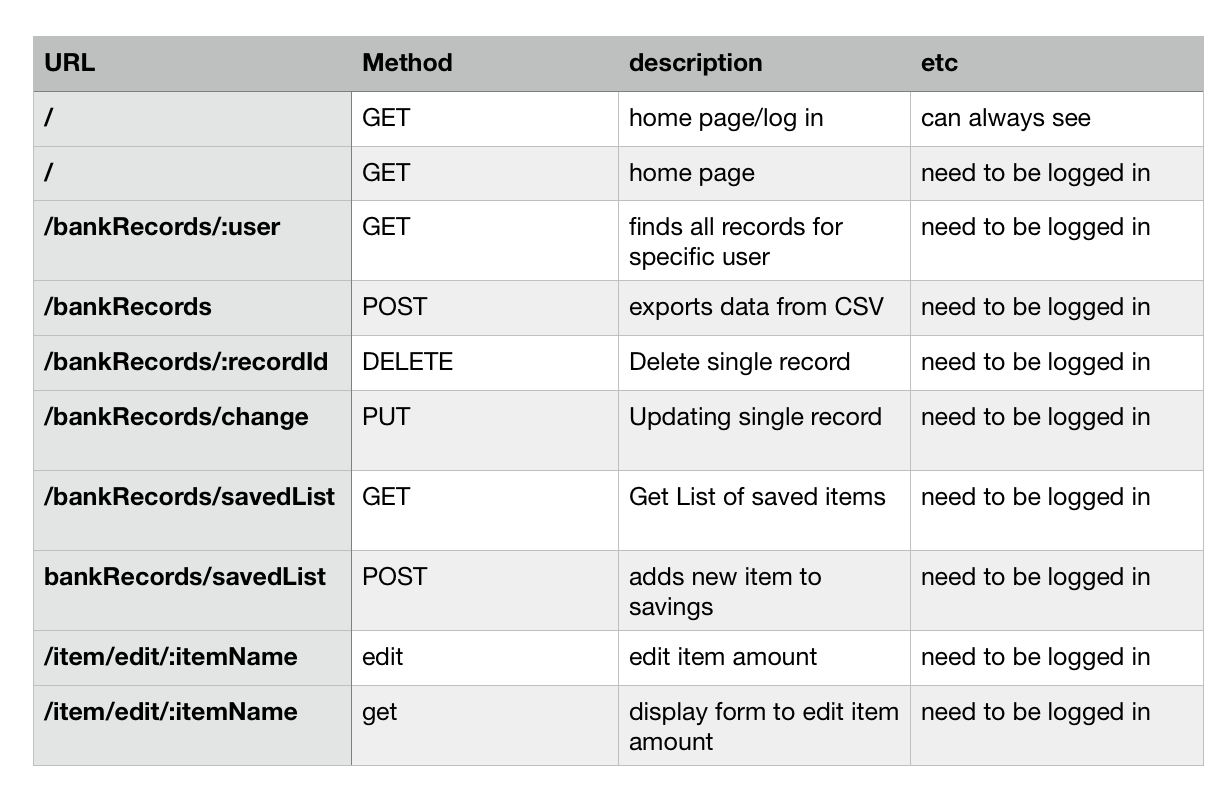
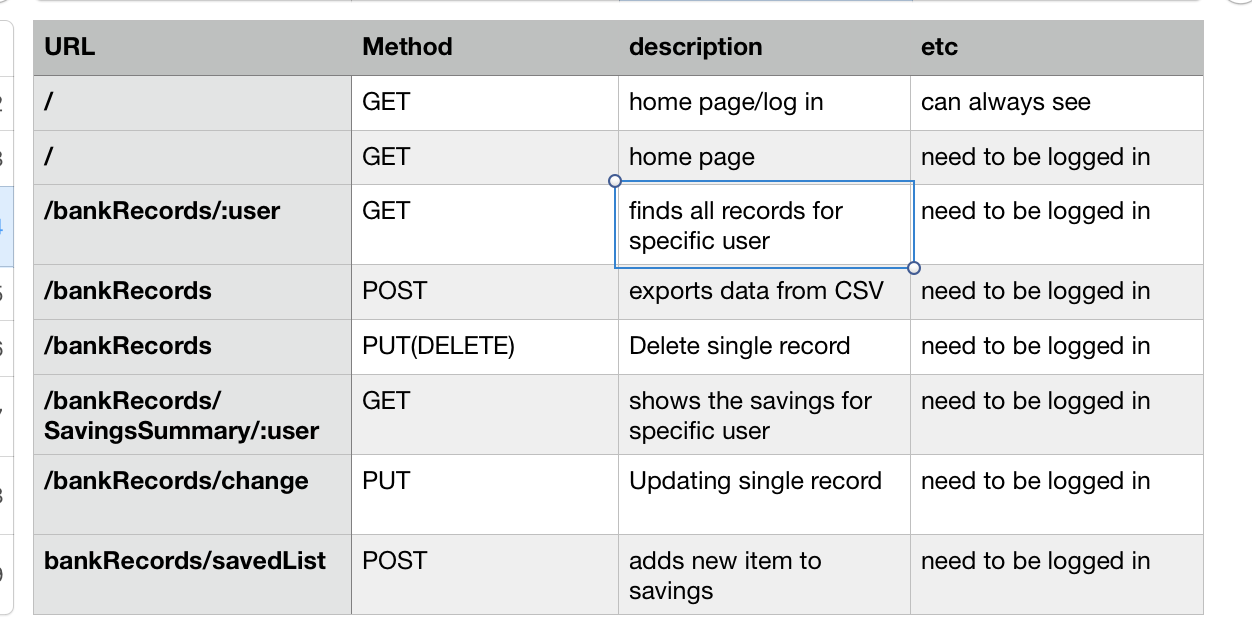
updated readme

diff --git a/client/src/EnterSavings.js b/client/src/EnterSavings.js
@@ -20,7 +20,7 @@ class EnterSavings extends Component {
       user: {}
     };
     //thisis the binding line necessary to keep this bound correctly
-    // this.componentDidMount = this.componentDidMount.bind(this);
+    this.componentDidMount = this.componentDidMount.bind(this);
     this.handleChangeDescription = this.handleChangeDescription.bind(this);
     this.handleChangeCategory = this.handleChangeCategory.bind(this);
     this.handleChangeAmount = this.handleChangeAmount.bind(this);
@@ -63,22 +63,14 @@ class EnterSavings extends Component {
 
 
   handleSubmit(e) {
-    // console.log('in savings value this is this.date.value', e)
-    // console.log("Description: ", this.state.Description);
-    // console.log("Category: ", this.state.Category);
-    // console.log("Amount: ", this.state.Amount);
-    // console.log("date: ", this.state.date);
     e.preventDefault();
     let Description = this.state.Description;
     let Category = this.state.Category;
     let Amount = this.state.Amount;
-    // console.log("descript: ", Description);
-    // console.log("category: ", Category);
-    // console.log("Amount: ", Amount);
     let user = this.state.user;
     let date = this.state.date.format("MM/DD/YY");
 
-    //add all three variables to object {} -- let Object = {insert object of three variables}
+    //add all the variables to object {} -- let Object = {insert object of three variables}
     let newObject = {
       Description: Description,
       Category: Category,
@@ -87,12 +79,6 @@ class EnterSavings extends Component {
       isSaved: true,
       userId: user
     }
-    //data: Ojbect of the three variables
-    //re-set state based on updated form information...
-
-    //add the new object (Object) to tempArr -- Google: ".shift() for objects"
-    //setState to tempArr (which is already done below)
-    // console.log("state: ", this.state.savings);
    let a = this;
     axios.post('/bankRecords/savedList', {
       data: newObject//insert object of the three variables
@@ -102,10 +88,6 @@ class EnterSavings extends Component {
       console.log("error: ", error);
     })
   }
-
-
-
-
 
   componentDidMount() {
     let user = this.props.user
@@ -138,11 +120,7 @@ class EnterSavings extends Component {
             <br />
             <div className="col s12">
               <select name="Category" value={this.state.value} onChange={this.handleChangeCategory} required>
-<<<<<<< HEAD
-                <option  value="" disabled defaultValue selected> </option>
-=======
-                <option  value="" disabled selected default> </option>
->>>>>>> unclebconnor-fridaysync
+                <option  value="" > </option>
                 <option value="Bills">Bills</option>
                 <option value="Groceries">Groceries</option>
                 <option value="Transportation">Transportation</option>
@@ -179,9 +157,11 @@ class EnterSavings extends Component {
             />
 
             <br />
-            <br />
-          <input type="submit" value="Submit" />
+            <input className="btn waves-effect waves-light movedownalittle" type="submit" value="Submit"  />  
         </form>
+        <br/>
+        <div className='divider'> </div>
+
       </div>
     );
   }

diff --git a/client/src/App.js b/client/src/App.js
@@ -55,28 +55,14 @@ class App extends Component {
     this.setState({
       user: user
     })
-    // console.log("user props: ", this.props.user)
-    // console.log("user state: ", this.state.user)
+    console.log("user props: ", this.props.user)
+    console.log("user state: ", this.state.user)
     }
   render() {
-<<<<<<< HEAD
-
-    // console.log("XXXXXXXXXX: ", this.state)
-    let user = this.props.user
-    // console.log("user in client/App.js: ", user);
-    // console.log("APP.JS STATE", this.state)
-
-=======
-<<<<<<< HEAD
     console.log("XXXXXXXXXX: ", this.state)
     let user = this.state.user
-=======
-    // console.log("XXXXXXXXXX: ", this.state)
-    let user = this.props.user
->>>>>>> 20f95289062eb4659571de61300566538066c1eb
     console.log("user in client/App.js: ", user);
     console.log("APP.JS STATE", this.state)
->>>>>>> unclebconnor-fridaysync
     // if the token exists display the router
     if(this.state.token !== "" && this.state.token !== undefined){ //need this active to use auth
   // if(true){
@@ -87,7 +73,7 @@ class App extends Component {
             <div className="nav-wrapper">
             <a href="/" className="brand-logo right"><i className="material-icons left">beach_access </i>RainyDay </a>
             <a href="/" className="button-collapse "><i className="material-icons">menu</i></a>
-              <div className='hide-on-sm-and-down'>
+              <div className='hide-on-med-and-down'>
               <Link to="/" className="btn btn-large #99d3df cyan darken-3 ">Home</Link>
               <Link to="/savingsReactRoute" className="btn btn-large #88bbd6 cyan darken-3 ">Savings</Link>
               <Link to="/bankRecordsReactRoute" className="btn btn-large #00838f cyan darken-3 ">Bank Records</Link>
@@ -116,11 +102,11 @@ class App extends Component {
               <Route exact path="/bankRecordsReactRoute"
                 render={() => <BankRecords user={this.state.user} />}
               />
-              <Route exact path="/userDataReactRoute"
+              <Route exact path="/userDataReactRoute" 
                 render={() => <UserData user={this.state.user} />}
               />
-
-
+             
+              
             </div>
           </div>
         </Router>
@@ -129,7 +115,7 @@ class App extends Component {
       return(
         <Router>
         <div className="App">
-
+                      
               <nav className="RouterLinks  #00838f cyan darken-3  navbar">
                  <div className="nav-wrapper">
                    <a href="/" className="brand-logo right"><i className="material-icons left">beach_access </i>RainyDay </a>
@@ -149,9 +135,9 @@ class App extends Component {
               <Route exact path="/Login"
                 render={() => <Login lift={this.liftTokenToState} />}
               />
-
+              
             </div>
-
+          
         </div>
         </Router>
       )

diff --git a/routes/bankRecords.js b/routes/bankRecords.js
@@ -7,11 +7,24 @@ var flash = require('connect-flash');
 
 //COMPLETE: grab data form database and display in client: src/EditBankData.js
 router.post('/', function(req, res, next) {
+  for (let obj of req.body.data) {
+    obj['CheckNumber'] = obj['Check or Slip #'];
+    obj['TransDate'] = obj['Trans Date'];
+    obj['PostDate'] = obj['Post Date'];
+    obj['PostedDate'] = obj['Posting Date'];
+    delete obj['Trans Date'];
+    delete obj['Post Date'];
+    delete obj['Posting Date'];
+  }
   let item = req.body.data;
   console.log("item in router.post: ", item);
+  //TODO: add user ID to item
+  //will have to make sure that it's
+    //adding a new key/value pair
   let trans = []
   for (var i = 0; i < item.length; i++) {
     trans.push(item[i]);
+    // console.log("trans in for loop: ", trans)
     console.log("item[i]: ", item[i])
     BankRecord.create(item[i], function(err, item) {
       if(err) console.log("error: ", error)
@@ -45,15 +58,6 @@ router.put('/', function(req, res, next){
     });
 });
 
-
-router.get('/savedList', function(req, res, next){
-    console.log("router.get('/savedList,...) in routes on server");
-    BankRecord.find({ isSaved: true }, function(err, records){
-        if(err) return res.send(err);
-        console.log(records);
-        res.send(records);
-    });
-});
 
 //COMPLETE: get route to display saved item in AllSavings.js
 router.get('/SavingsSummary/:user', function(req, res, next){

diff --git a/app.js b/app.js
@@ -17,10 +17,6 @@ var mongoose = require('mongoose');
 // mongoose.connect('mongodb://localhost/mern-local-auth');
 mongoose.connect('mongodb://localhost/rainyDay');
 
-<<<<<<< HEAD
-
-=======
->>>>>>> 20f95289062eb4659571de61300566538066c1eb
 // var BankRecord = require('./models/bankRecord');
 var User = require('./models/user');
 var index = require('./routes/index');
@@ -75,27 +71,7 @@ app.use('/', index);
 app.use('/users', users);
 app.use('/auth', auth);
 app.use('/bankRecords', bankRecords);
-<<<<<<< HEAD
 
-=======
->>>>>>> 20f95289062eb4659571de61300566538066c1eb
 
-// catch 404 and forward to error handler - commented out
-// app.use(function(req, res, next) {
-//   var err = new Error('Not Found');
-//   err.status = 404;
-//   next(err);
-// });
-//
-// // error handler
-// app.use(function(err, req, res, next) {
-//   // set locals, only providing error in development
-//   res.locals.message = err.message;
-//   res.locals.error = req.app.get('env') === 'development' ? err : {};
-//
-//   // render the error page
-//   res.status(err.status || 500);
-//   res.render('error');
-// });
 
 module.exports = app;

diff --git a/client/src/UserData.js b/client/src/UserData.js
@@ -361,7 +361,7 @@ class UserData extends Component {
     return (
       <div className="UserDataWrapper">
         
-<<<<<<< HEAD
+
         <p>Make Toolbar for datepicker with directions</p>
         <p>First Date Range</p>
         <DateRangePicker
@@ -394,7 +394,7 @@ class UserData extends Component {
         <UserSummary />
         <UserPieCharts pieData={this.state.pieDataFullRange}/>
         {/* <UserBarGraph barDataRange1={this.state.barDataRange1} barDataRange2={this.state.barDataRange2}/> */}
-=======
+
         <div className="row">
           <div className="col m6">
             <div className="col s6">
@@ -481,7 +481,7 @@ class UserData extends Component {
             barDataSaved1={this.state.barDataSaved1}
             barDataSaved2={this.state.barDataSaved2}
           />
->>>>>>> 20f95289062eb4659571de61300566538066c1eb
+
       </div>
     );
   }

diff --git a/client/src/InputBankRecords.js b/client/src/InputBankRecords.js
@@ -25,11 +25,6 @@ class InputBankRecords extends Component {
     // console.log("uploadFile: ", e.target)
     let uploaded = e.target.files[0];
     let user = this.state.user;
-<<<<<<< HEAD
-    // console.log("XXXX user in uploadfile XXXX: ", user);
-=======
-    // console.log("XXXX user in uploadfile XXX: ", user);
->>>>>>> unclebconnor-fridaysync
     uploaded.user = user;
       this.props.papaData(uploaded);
   }

diff --git a/client/src/App.css b/client/src/App.css
@@ -70,7 +70,10 @@ select {
 .movedown{
   margin-top:60px;
 }
-
+.movedownalittle{
+	margin-top:10px;
+	
+}
 /* .notmoving{
   position: fixed;
 	background-color: rgb(92, 119, 177);
@@ -177,7 +180,8 @@ select {
 
 input[type=text]:not(.browser-default){
 	margin:0;
-	text-align: center;
+	text-align: left;
+	border-bottom: 0px;
 
 }
 

diff --git a/README.md b/README.md
@@ -23,7 +23,7 @@
 * Run `npm install` to install dependencies
 * Use `npm start` to start your application
 
-* View this project on  <a href="#">Github</a>
+* View this project on  <a href="#">Heroku</a>
 
 # Approach taken: #
 
@@ -50,7 +50,7 @@ _wireframes:_
 
 
 _planing the flow of the app:_
-![picture](static/img/flowchartapp.png)
+![picture](client/public/img/flowchartapp.png)
 
 _planing the routes:_
 ![picture](client/public/img/routes.png)
@@ -63,11 +63,9 @@ _Execution:_
 
 3.  We made the routes  and created the front-end pages with React.
 
-4.    
+4.  Designed with Materilize    
 
-5.  Designed with Materilize    
-
-6.  Github mutual contribution    
+5.  Github mutual contribution    
 
 # Unsolved problems #
 _Things we would love to accomplish later:_
